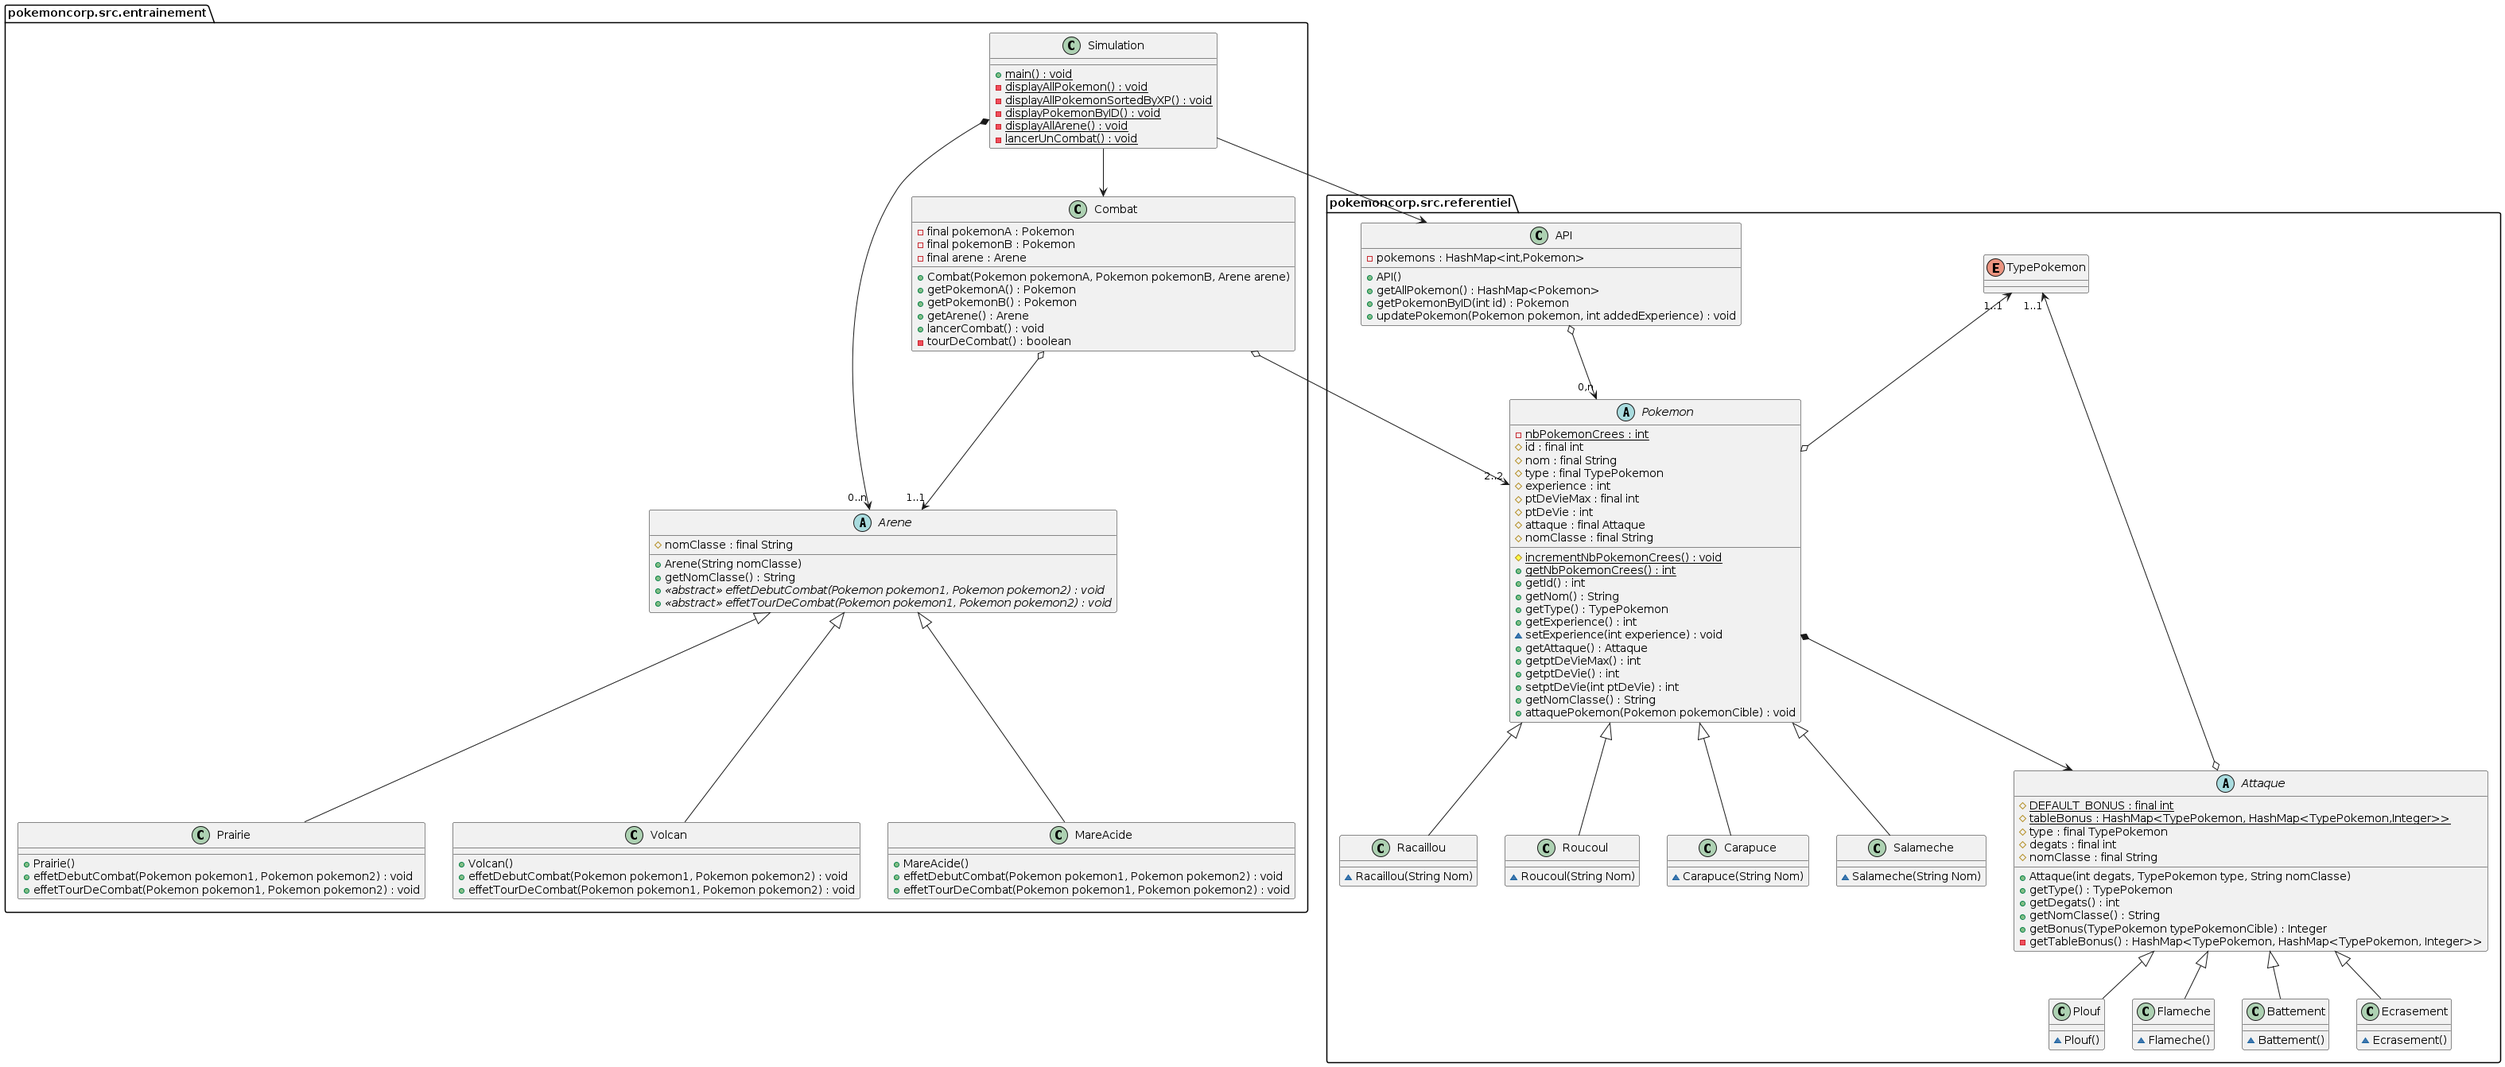
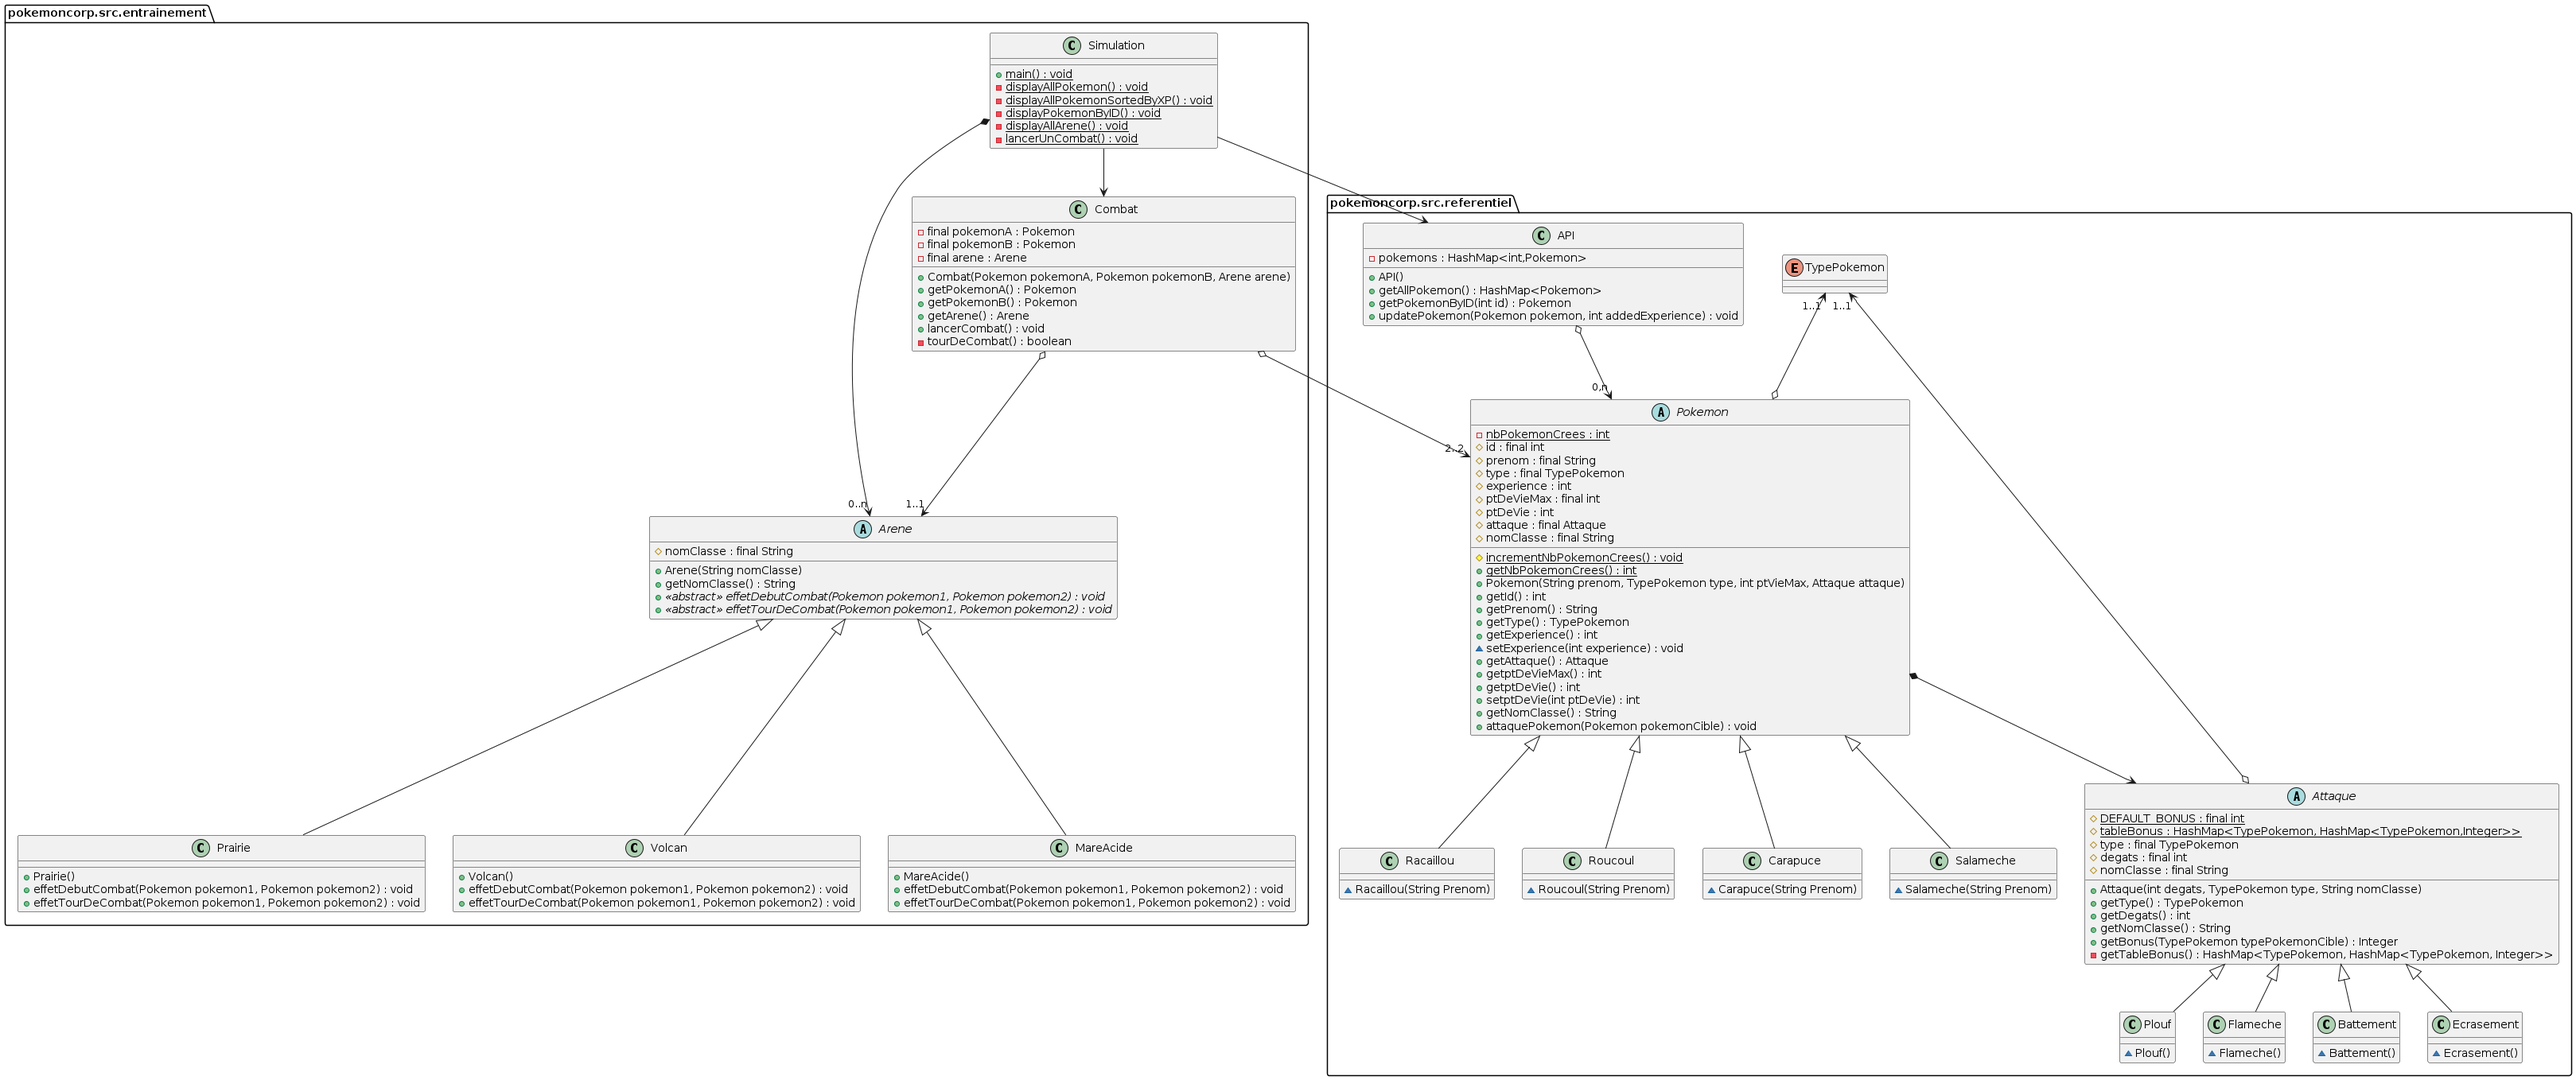
Update UML : Pokemon.nom => prenom

diff --git a/pokemoncorp/src/entrainement/Simulation.java b/pokemoncorp/src/entrainement/Simulation.java
@@ -124,7 +124,7 @@ public class Simulation {
             return;
         }
 
-        //
+        // On récupère le pokemon et on affiche ses attributs
         Pokemon lePokemon = api.getPokemonByID(id);
 
         System.out.println("Le Pokemon choisi s'appelle : " + lePokemon.getNom());
